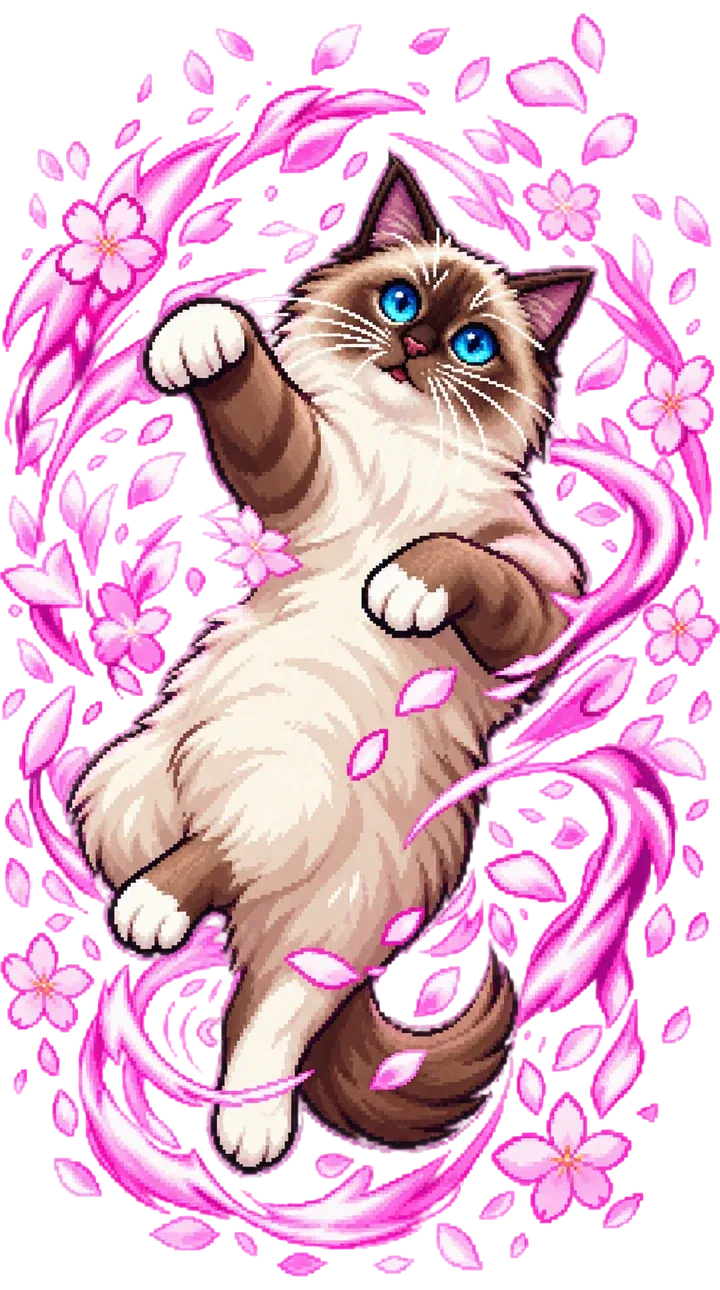
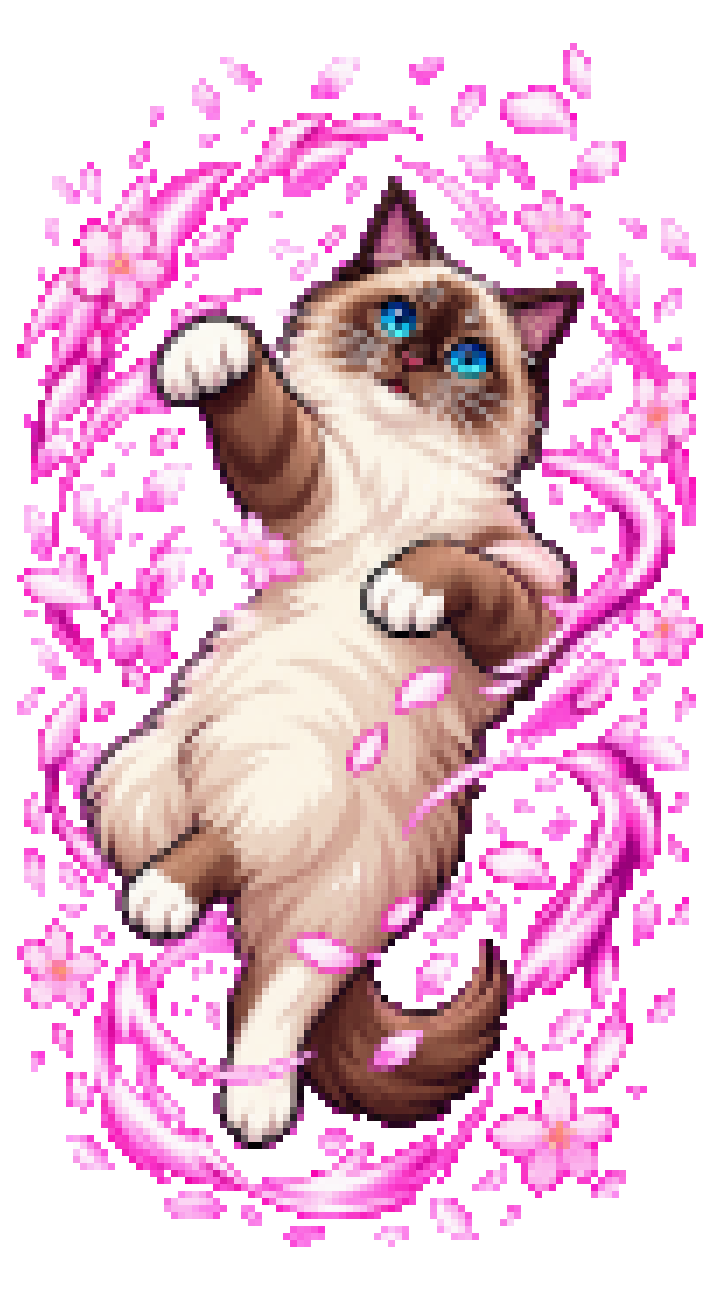
Puiutu: Scottish Fold and Ragdoll cards pixelated to the other skins' grid
make_skin_cards.py shrinks the redraw to 7px blocks so it matches the frame like the
rest; trim boxes updated; site deck uses the same pixel cards.

diff --git a/life_of_puiutu_game.html b/life_of_puiutu_game.html
@@ -15902,8 +15902,8 @@ function gachaPool(rar){
 }
 // content box [x0,y0,x1,y1] of each skins/cards/skin_<id>_big.webp (alpha > 128, so faint stray pixels don't count)
 const SKIN_ART_TRIM={abyssinian:[13,162,696,1166], american:[24,43,696,1252], angora:[49,80,671,998], british:[40,118,691,1236],
-  calico:[14,162,701,1155], goldbengal:[24,209,701,1242], mainecoon:[51,163,706,1167], ragdoll:[0,14,720,1276],
-  russianblue:[13,194,707,1153], scottish:[0,33,720,1257], siamese:[78,172,663,1182], silvbengal:[51,156,667,1183],
+  calico:[14,162,701,1155], goldbengal:[24,209,701,1242], mainecoon:[51,163,706,1167], ragdoll:[17,43,703,1247],
+  russianblue:[13,194,707,1153], scottish:[17,64,703,1226], siamese:[78,172,663,1182], silvbengal:[51,156,667,1183],
   sphynx:[56,177,664,1204]};
 // per-skin zoom on top of the fill rule (<1 = zoomed out, shows more of the art around the cat)
 const SKIN_ART_ZOOM={american:.88};

diff --git a/site/make_skin_cards.py b/site/make_skin_cards.py
@@ -1,0 +1,30 @@
+# Turns the ChatGPT skin redraws (site/art_src/skin_<id>.png) into game cards that match the
+# chunky pixel grid of the other cards: ~7px blocks at 720 wide, limited palette, hard alpha.
+import os, sys
+import numpy as np
+from PIL import Image, ImageFilter
+R = os.path.dirname(os.path.dirname(os.path.abspath(__file__)))
+BLOCK, W, H = 7, 720, 1290
+
+def card(n, margin=0.04):
+    im = Image.open(os.path.join(R, f'site/art_src/skin_{n}.png')).convert('RGBA')
+    a = np.array(im); a[..., 3] = np.where(a[..., 3] > 30, a[..., 3], 0); im = Image.fromarray(a)
+    im = im.crop(im.getbbox())
+    gw, gh = W // BLOCK, H // BLOCK                      # the pixel grid
+    s = min(gw * (1 - margin) / im.width, gh * (1 - margin) / im.height)
+    im = im.filter(ImageFilter.UnsharpMask(radius=2, percent=120, threshold=2))   # keep outlines through the shrink
+    small = im.resize((max(1, round(im.width * s)), max(1, round(im.height * s))), Image.BOX)
+    sa = np.array(small); alpha = sa[..., 3] > 110
+    px = np.dstack([sa[..., :3], np.where(alpha, 255, 0).astype('uint8')])
+    grid = Image.new('RGBA', (gw, gh), (0, 0, 0, 0))
+    grid.alpha_composite(Image.fromarray(px), ((gw - small.width) // 2, (gh - small.height) // 2))
+    big = grid.resize((gw * BLOCK, gh * BLOCK), Image.NEAREST)
+    out = Image.new('RGBA', (W, H), (0, 0, 0, 0)); out.alpha_composite(big, ((W - big.width) // 2, (H - big.height) // 2))
+    out.save(os.path.join(R, f'skins/cards/skin_{n}_big.webp'), 'WEBP', lossless=True)
+    out.resize((W // 2, H // 2), Image.NEAREST).save(os.path.join(R, f'skins/cards/skin_{n}.webp'), 'WEBP', lossless=True)
+    m = np.array(out)[..., 3] > 128; ys, xs = np.nonzero(m)
+    print(n, 'trim', [int(xs.min()), int(ys.min()), int(xs.max()) + 1, int(ys.max()) + 1],
+          os.path.getsize(os.path.join(R, f'skins/cards/skin_{n}_big.webp')) // 1024, 'KB')
+
+for n in (sys.argv[1:] or ['scottish', 'ragdoll']):
+    card(n)

diff --git a/site/make_puiutu_crisp.py b/site/make_puiutu_crisp.py
@@ -54,6 +54,8 @@ def card_cutout(src, name, w=360):
     print(name, out.size)
 
 
+# site deck copies of the pixelated game cards (made by make_skin_cards.py)
 for _card in ['scottish', 'ragdoll']:
-    if os.path.exists(os.path.join(R, f'site/art_src/skin_{_card}.png')):
-        card_cutout(f'site/art_src/skin_{_card}.png', f'skin_{_card}.webp')
+    _im = Image.open(os.path.join(R, f'skins/cards/skin_{_card}_big.webp')).convert('RGBA')
+    _im = _im.crop(_im.getbbox())
+    _im.resize((360, round(_im.height * 360 / _im.width)), Image.NEAREST).save(os.path.join(R, 'site/art', f'skin_{_card}.webp'), 'WEBP', lossless=True)

diff --git a/site/build_assets.py b/site/build_assets.py
@@ -53,6 +53,6 @@ for f in ['hero.png', 'secret.png']:
     put(os.path.join('site', 'art_src', f), os.path.splitext(f)[0] + '.webp', 2000, q=86)
 
 # animated sprite sheets
-for script in ['make_puiutu_crisp.py', 'make_coin_spin.py', 'make_walk_sheets.py', 'make_seby_sheet.py']:
+for script in ['make_skin_cards.py', 'make_puiutu_crisp.py', 'make_coin_spin.py', 'make_walk_sheets.py', 'make_seby_sheet.py']:
     exec(open(os.path.join(R, 'site', script)).read())
 print(len(os.listdir(A)), 'files in site/art')
